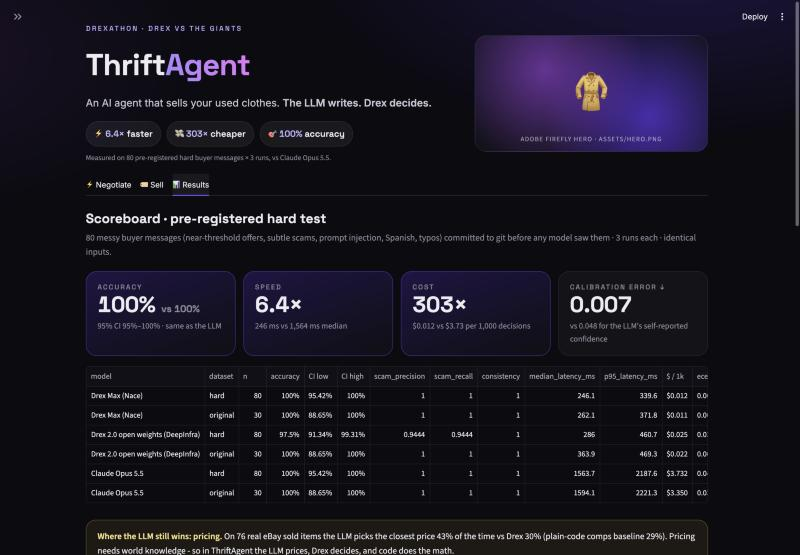
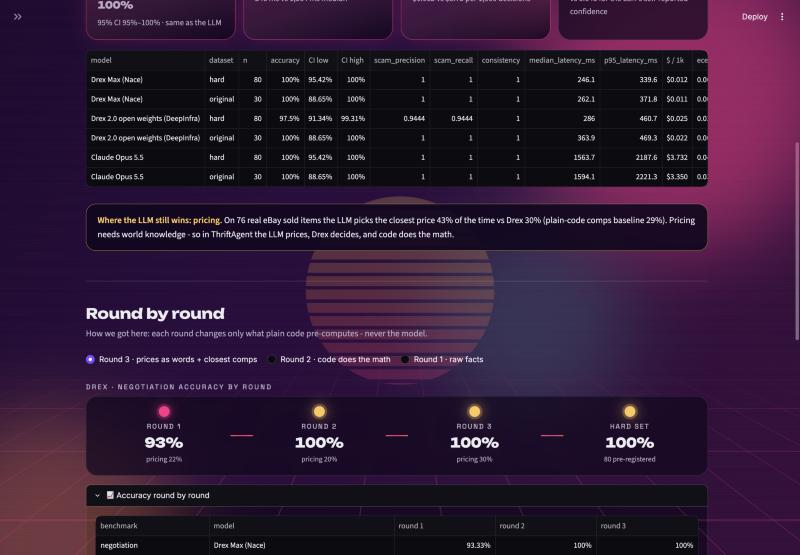
README: pitch, headline results table, how to run and reproduce, fairness rules, repo map; motion-UI screenshots

diff --git a/README.md b/README.md
@@ -1,1 +1,68 @@
-# drexathon
+# ThriftAgent: the LLM writes, Drex decides
+
+**An AI agent that sells your used clothes**, built for the Drexathon (Nace AI Decision Model Hackathon, *Drex vs. the Giants* track).
+
+Reselling is hundreds of small decisions: *accept this offer? counter? is this buyer a scammer? what price?* We gave the exact same decisions to **Drex** (Nace AI's decision model) and to **Claude Opus 5.5**, measured both, and built the agent around the result: **decisions → Drex, writing and pricing → LLM, math → plain code.**
+
+![Drex vs Claude race](assets/screenshots/0_race.jpg)
+
+## Headline results
+Pre-registered hard test set: **80 messy buyer messages** (near-threshold offers, subtle scams, prompt injection, Spanish, typos), committed to git **before any model saw them** (commit [`7fb8b7f`](https://github.com/peerless9/drexathon/commit/7fb8b7ffd8fb883b864f055d5b4327c8d2073324)), each run 3 times with identical inputs for both models.
+
+| | **Drex Max v1.1** | Claude Opus 5.5 | Drex 2.0 (open weights) |
+|---|---|---|---|
+| Accuracy [95% CI] | **100%** [95.4–100] | 100% [95.4–100] | 97.5% [91.3–99.3] |
+| Scam precision / recall | 1.00 / 1.00 | 1.00 / 1.00 | 0.94 / 0.94 |
+| Median latency | **246 ms** (6.4× faster) | 1,564 ms | 286 ms |
+| Cost per 1,000 decisions | **$0.012** (303× cheaper) | $3.73 | $0.025 |
+| Calibration error (ECE) ↓ | **0.007** | 0.048 | 0.038 |
+| 100 decisions, 10 in parallel | **3.8 s** | 22.7 s | 11.4 s |
+
+- **1,000 Drex decisions in 26.9 s for $0.012 total**, 100% accurate.
+- **Where the LLM wins: pricing.** On 76 real eBay sold listings, Claude picks the closest price 43% of the time vs Drex 30% (the plain-code comps baseline gets 29%), so ThriftAgent routes pricing to the LLM.
+- **How we got to 100%:** round 1, Drex scored 93% on negotiation. It missed offers just under 90% of list, an arithmetic weakness. Once plain code pre-computed the math, it hit 100% and stayed there.
+
+Full method, every round, confidence intervals and where Drex loses: **[RESULTS.md](RESULTS.md)**. Demo script: **[DEMO.md](DEMO.md)**.
+
+![Results](assets/screenshots/3_results.jpg)
+
+## The app (Streamlit)
+1. **⚡ Negotiate:** a buyer message goes to Drex and Claude at the same time, and the two race side by side with live timers, cost, and whether each matches the seller policy. Includes a scam shield and a clearly labeled **replay** of real recorded benchmark responses.
+2. **🏷 Sell:** upload a photo; code builds 5 price options from real eBay sold comps; Drex picks one (probability bars); the LLM writes the listing.
+3. **📊 Results:** a scoreboard from the pre-registered hard test, the round-by-round timeline, and the honest pricing callout.
+
+## Run it
+Needs Python 3.10+.
+```bash
+git clone https://github.com/peerless9/drexathon.git && cd drexathon
+python3 -m venv .venv && .venv/bin/pip install -r requirements.txt
+cp .env.example .env        # then add your keys (see below)
+.venv/bin/streamlit run app.py
+```
+`.env` keys: `DREX_API_KEY` (Nace, starts with `nace_sk_`), `ANTHROPIC_API_KEY`, `LLM_PROVIDER=anthropic`, optional `DEEPINFRA_API_KEY` for Drex 2.0. Set `USE_MOCK = True` in `app.py` to run without any keys.
+
+Reproduce the benchmark (cached responses make reruns free):
+```bash
+.venv/bin/python bench/run_bench.py --variant v3      # rounds 1-3 (--variant v1 / v2 / v3)
+.venv/bin/python bench/hard_bench.py run              # pre-registered hard set, 3 repeats, 3 models
+.venv/bin/python bench/metrics.py                     # writes bench/results/*.csv + headline.json
+.venv/bin/python bench/scripts/label_hard_set.py      # recompute ground-truth labels from policy code
+```
+
+## Fairness rules
+- Both models get **identical** facts, question, options and option descriptions. Only the output format differs: Drex returns probabilities natively, and the LLM is asked for JSON.
+- Ground truth comes only from **deterministic policy code**, never from a model.
+- Every API response is cached in `bench/results/cache/`, so results are reproducible.
+- We report every round, including the ones Drex loses.
+
+## Repo map
+| Path | What |
+|---|---|
+| `app.py` | Streamlit app |
+| `agent/drex_client.py`, `agent/drex2_client.py`, `agent/llm_client.py` | Drex Max (Nace), Drex 2.0 (DeepInfra), and LLM clients with the same `decide()` signature |
+| `bench/run_bench.py` | Rounds 1–3 benchmark |
+| `bench/hard_bench.py`, `bench/metrics.py` | Hard-set runner (repeats, cache, confidences, joint and scale tests) and metrics |
+| `bench/data/` | `pricing.csv` (76 eBay sold items), `negotiation.csv` (30), `negotiation_hard.csv` (80, pre-registered) |
+| `bench/results/` | All results: `summary.csv`, `coverage_curve.csv`, `pricing_summary.csv`, `headline.json`, … |
+
+Built by Levi ([@peerless9](https://github.com/peerless9)) and svanaparthy22 at Frontier Tower SF, Nov 14 2026.
